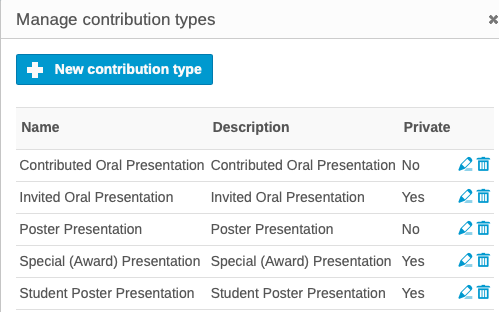
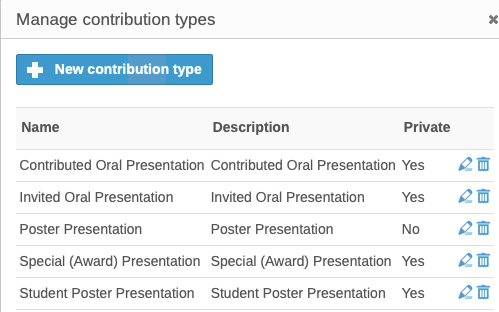
Fixed process of contributed abstract submission

diff --git a/docs/ContributedAbstracts/SSsetup.md b/docs/ContributedAbstracts/SSsetup.md
@@ -28,7 +28,7 @@ Now, edit all contribution types **ensuring that all except *Contributed Oral Pr
 
 The system is already setup with all the Main Classifications (MC) as tracks:
 
-![](img/tracks.png)
+![](/General/img/tracks.png)
 
 For the contributed abstracts submission it is necessary to further define all tracks by introducing Sub-Classifications (MC). This will be done by **reworking the existing tracks as track groups**, then introducing the new (detailed) **sub-classifications as tracks**. The combination of Track Groups and Tracks (Main and Sub-classifications) makes it far easier for submitters to decide the precise place their contribution should appear in the programme, and for the Event Administrator to schedule them.
 
